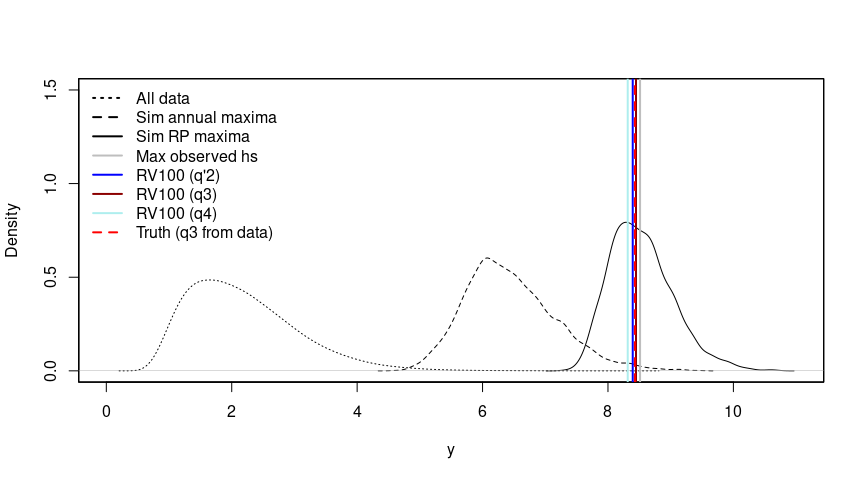
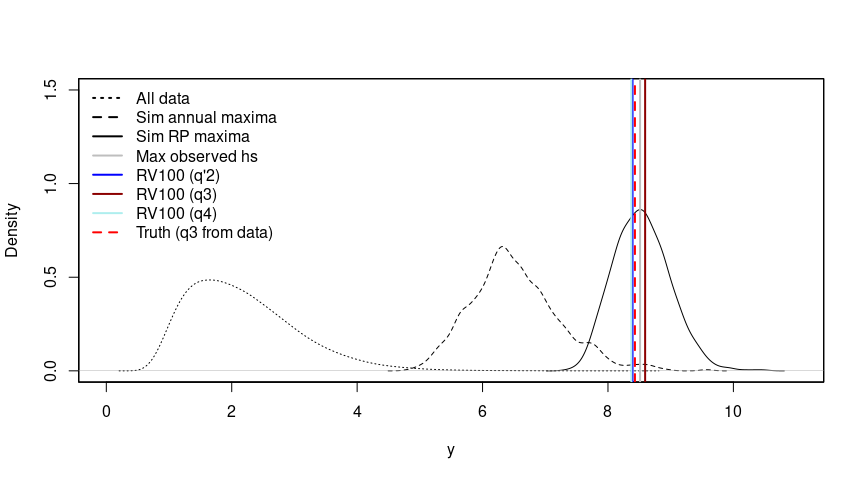
tested README

diff --git a/README.md b/README.md
@@ -60,7 +60,7 @@ system.time(df_pick <- peak_picking(ds, peak_picking_thr_model_fml,
     ## [1] "find peaks for combined storms"
 
     ##    user  system elapsed 
-    ## 361.986  53.810 415.931
+    ## 335.898  47.096 383.146
 
 ``` r
 # additional variables were added, i.e. exc, thr, and storm_idx
@@ -100,7 +100,7 @@ system.time(res_bstrp <- run_bootstrap_storms_pots(df = df_pick$storms,
 ```
 
     ##    user  system elapsed 
-    ##   6.852   0.000   6.853
+    ##   7.038   0.000   7.040
 
 ``` r
 bstrp_storms_lst <- res_bstrp$boot_samples
@@ -207,7 +207,7 @@ dhs <- diagnose_margs_preds_density(preds_margs_lst, "hs", bw=.1, xlim=c(5,40))
 
     ## [1] "summary maxes:"
     ##    Min. 1st Qu.  Median    Mean 3rd Qu.    Max. 
-    ##   11.44   13.59   14.47   14.83   15.57   60.53
+    ##   11.65   13.53   14.43   14.95   15.62   66.17
 
 ``` r
 abline(v = max(df_pick$pots$hs), col = "gray", lwd = 2)
@@ -547,9 +547,9 @@ cat(sprintf("Low sector: %.2f\nHigh sector: %.2f\nOmni: %.2f\n",
             RP_f_hmax_low, RP_f_hmax_high, RP_f_hmax))
 ```
 
-    ## Low sector: 13.45
-    ## High sector: 23.41
-    ## Omni: 24.14
+    ## Low sector: 13.60
+    ## High sector: 22.30
+    ## Omni: 22.74
 
 ## Apply to synthetic, univariate, non-stationary data
 
@@ -593,7 +593,7 @@ system.time(df_pick <- peak_picking(ds_subset, peak_picking_thr_model_fml,
     ## [1] "find peaks for combined storms"
 
     ##    user  system elapsed 
-    ##  24.015   0.445  24.481
+    ##  25.722   0.522  26.295
 
 ## Plot picking result
 
@@ -636,7 +636,7 @@ cvres <- cross_validation(dfin = df_pick$pots, nr_cv = 5,
 plot_cvres(cvres, limits = c(.8, .9))
 ```
 
-    ## [1] 0.86 0.88
+    ## [1] 0.9 0.9
 
 ![](README_files/figure-gfm/unnamed-chunk-28-1.png)<!-- -->
 
@@ -774,8 +774,8 @@ cat(sprintf("Truth: %.2f\nq'2: %.2f\nq3: %.2f\nq4: %.2f\n",
 
     ## Truth: 8.43
     ## q'2: 8.39
-    ## q3: 8.45
-    ## q4: 8.32
+    ## q3: 8.59
+    ## q4: 8.37
 
 ## Notes
 
